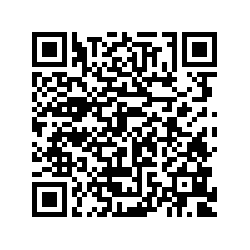
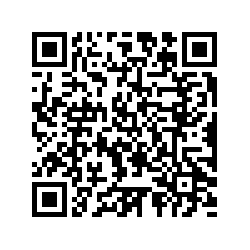
Finally qr for attendance is implemented with the classpath defined in yml file .

Changed region(s): [[0.112, 0.112, 0.868, 0.868]]

diff --git a/src/main/java/com/cosmotechintl/AttendanceSystem/service/AttendanceServiceImpl.java b/src/main/java/com/cosmotechintl/AttendanceSystem/service/AttendanceServiceImpl.java
@@ -26,6 +26,7 @@ import java.nio.file.Files;
 import java.nio.file.Paths;
 import java.time.LocalDate;
 import java.time.LocalDateTime;
+import java.util.Map;
 import java.util.Optional;
 import java.util.UUID;
 
@@ -63,12 +64,12 @@ public class AttendanceServiceImpl implements AttendanceService {
             // Generate and save check-in QR code
             String checkInFilePath = storageDirectory + "checkin.png";
             qrCodeGenerator.saveQRCodeImage(qrCodeDataCheckIn, checkInFilePath);
-            saveQRMetadata(token,date,checkInFilePath);
+            saveQRMetadata(token, date, checkInFilePath);
 
             // Generate and save check-out QR code
             String checkOutFilePath = storageDirectory + "checkout.png";
             qrCodeGenerator.saveQRCodeImage(qrCodeDataCheckOut, checkOutFilePath);
-            saveQRMetadata(token,date,checkOutFilePath);
+            saveQRMetadata(token, date, checkOutFilePath);
         } catch (Exception e) {
             // Log the exception
             System.err.println("Error generating daily QR codes: " + e.getMessage());
@@ -76,8 +77,8 @@ public class AttendanceServiceImpl implements AttendanceService {
         }
     }
 
-    @Scheduled(cron ="59 59 23 * * *")
-    private void deleteDailyQR(){
+    @Scheduled(cron = "59 59 23 * * *")
+    private void deleteDailyQR() {
         try {
             // Define the directory where QR codes are stored
             String storageDirectory = "qr_storage/";
@@ -109,20 +110,42 @@ public class AttendanceServiceImpl implements AttendanceService {
             System.out.println("Error occurred while deleting daily QR codes: " + e.getMessage());
         }
     }
-    @Override
-    public ResponseEntity<?> getCheckInQR() {
-        return getQRResponse("qr_storage/checkin.png");
-    }
 
     @Override
-    public ResponseEntity<?> getCheckOutQR() {
-        return getQRResponse("qr_storage/checkout.png");
+    public ApiResponse<?> getAttendanceQR() {
+        try {
+            // Retrieve and validate the file paths for both QR codes
+            String checkInPath = validateQRFilePath("qr_storage/checkin.png");
+            String checkOutPath = validateQRFilePath("qr_storage/checkout.png");
+
+            // Prepare the response data
+            Map<String, String> paths = Map.of(
+                    "checkInQR", checkInPath,
+                    "checkOutQR", checkOutPath
+            );
+            return ResponseUtil.getSuccessResponse(paths, "QR Code generated successfully.");
+        } catch (Exception e) {
+            return ResponseUtil.getErrorResponse(e, HttpStatus.CONFLICT);
+        }
+    }
+
+    // Helper method to validate and retrieve the file path
+    private String validateQRFilePath(String filePath) throws ResourceNotFoundException {
+        File qrFile = new File(filePath);
+
+        // Check if the file exists
+        if (!qrFile.exists()) {
+            throw new ResourceNotFoundException("QR code file not found: " + filePath);
+        }
+
+        // Return the relative path of the file
+        return filePath;
     }
 
     @Override
     public ApiResponse<?> checkIn(QRAttendance qrattendance) {
-        String accessToken =qrattendance.getAccessToken();
-        String token =qrattendance.getToken();
+        String accessToken = qrattendance.getAccessToken();
+        String token = qrattendance.getToken();
         try {
             // Step 1: Validate token and expiration
             UserInfo userInfo = validateAccessTokenAndUUIDToken(accessToken, token);
@@ -149,8 +172,8 @@ public class AttendanceServiceImpl implements AttendanceService {
 
     @Override
     public ApiResponse<?> checkOut(QRAttendance qrattendance) {
-        String accessToken =qrattendance.getAccessToken();
-        String token =qrattendance.getToken();
+        String accessToken = qrattendance.getAccessToken();
+        String token = qrattendance.getToken();
         try {
             // Step 1: Validate token and expiration
             UserInfo userInfo = validateAccessTokenAndUUIDToken(accessToken, token);
@@ -189,9 +212,10 @@ public class AttendanceServiceImpl implements AttendanceService {
         UserInfo userinfo = userInfoRepository.findByUsername(username).orElseThrow(() -> new ResourceNotFoundException("User not found"));
         LocalDate today = LocalDate.now();
         // Check if the QR code is expired
-        boolean existQr = qrRepository.existsByTokenAndDate(token,today);
-        if(!existQr) {
-        throw new ResourceNotFoundException("QR token is not valid.");}
+        boolean existQr = qrRepository.existsByTokenAndDate(token, today);
+        if (!existQr) {
+            throw new ResourceNotFoundException("QR token is not valid.");
+        }
         return userinfo;
     }
 
@@ -201,38 +225,5 @@ public class AttendanceServiceImpl implements AttendanceService {
         qrData.setDate(date);
         qrData.setQr_url(filePath);
         qrRepository.save(qrData);
-    }
-
-    private ResponseEntity<?> getQRResponse(String filePath) {
-        try {
-            // Construct the file object for the QR code
-            File qrFile = new File(filePath);
-
-            // Validate that the QR code exists
-            if (!qrFile.exists()) {
-                throw new FileNotFoundException("QR code file not found: " + filePath);
-            }
-
-            // Prepare the file as a resource
-            Resource fileResource = new FileSystemResource(qrFile);
-
-            // Set the HTTP headers for image content
-            HttpHeaders headers = new HttpHeaders();
-            headers.setContentType(MediaType.IMAGE_PNG);
-            headers.setContentLength(qrFile.length());
-            headers.setContentDispositionFormData("attachment", qrFile.getName());
-
-            // Return the image file in the response
-            return ResponseEntity.ok()
-                    .headers(headers)
-                    .body(fileResource);
-
-        } catch (FileNotFoundException e) {
-            return ResponseEntity.status(HttpStatus.NOT_FOUND)
-                    .body("QR code file not found: " + filePath);
-        } catch (Exception e) {
-            return ResponseEntity.status(HttpStatus.INTERNAL_SERVER_ERROR)
-                    .body("Error generating QR code: " + e.getMessage());
-        }
     }
 }

diff --git a/src/main/java/com/cosmotechintl/AttendanceSystem/Controller/AttendanceController.java b/src/main/java/com/cosmotechintl/AttendanceSystem/Controller/AttendanceController.java
@@ -5,7 +5,6 @@ import com.cosmotechintl.AttendanceSystem.dto.RequestDTO.QRAttendance;
 import com.cosmotechintl.AttendanceSystem.dto.ResponseDTO.ApiResponse;
 import com.cosmotechintl.AttendanceSystem.service.AttendanceService;
 import org.springframework.beans.factory.annotation.Autowired;
-import org.springframework.http.ResponseEntity;
 import org.springframework.web.bind.annotation.*;
 
 @RestController
@@ -15,17 +14,11 @@ public class AttendanceController {
     @Autowired
     private AttendanceService attendanceService;
 
-    @GetMapping("/getCheckInQR")
-    public ResponseEntity<?> getCheckInAttendanceQR() {
-
-        return attendanceService.getCheckInQR();
+    @GetMapping("/getAttendanceQR")
+    public ApiResponse<?> getAttendanceQR() {
+        return attendanceService.getAttendanceQR();
     }
 
-    @GetMapping("/getCheckOutQR")
-    public ResponseEntity<?> getCheckOutAttendanceQR() {
-
-        return attendanceService.getCheckOutQR();
-    }
 
     @PostMapping("/checkIn")
     public ApiResponse<?> checkInUser(@RequestBody QRAttendance attendance) {

diff --git a/src/main/java/com/cosmotechintl/AttendanceSystem/service/QRCodeGenerator.java b/src/main/java/com/cosmotechintl/AttendanceSystem/service/QRCodeGenerator.java
@@ -20,12 +20,16 @@ public class QRCodeGenerator {
 
     public String generateQRCodeData(String apiUrl, String token) {
         try {
+
+            Map<String, String> qrData = Map.of(
+                    "baseUrl", BASE_URL,
+                    "apiUrl", apiUrl,
+                    "token", token
+            );
             // Encode the token as JSON
             ObjectMapper objectMapper = new ObjectMapper();
-            String tokenJson = objectMapper.writeValueAsString(Map.of("token", token));
+            return objectMapper.writeValueAsString(qrData);
 
-            // Construct the complete URL with the JSON token
-            return String.format("%s/%s?data=%s", BASE_URL, apiUrl, tokenJson);
         } catch (Exception e) {
             throw new RuntimeException("Error generating QR code data", e);
         }

diff --git a/src/main/java/com/cosmotechintl/AttendanceSystem/config/SecurityConfig.java b/src/main/java/com/cosmotechintl/AttendanceSystem/config/SecurityConfig.java
@@ -11,7 +11,6 @@ import org.springframework.security.authentication.AuthenticationManager;
 import org.springframework.security.authentication.AuthenticationProvider;
 import org.springframework.security.authentication.dao.DaoAuthenticationProvider;
 import org.springframework.security.config.annotation.authentication.builders.AuthenticationManagerBuilder;
-import org.springframework.security.config.annotation.authentication.configuration.AuthenticationConfiguration;
 import org.springframework.security.config.annotation.method.configuration.EnableMethodSecurity;
 import org.springframework.security.config.annotation.web.builders.HttpSecurity;
 import org.springframework.security.config.annotation.web.configuration.EnableWebSecurity;

diff --git a/src/main/java/com/cosmotechintl/AttendanceSystem/config/JwtAuthFilter.java b/src/main/java/com/cosmotechintl/AttendanceSystem/config/JwtAuthFilter.java
@@ -3,7 +3,6 @@ package com.cosmotechintl.AttendanceSystem.config;
 
 import com.cosmotechintl.AttendanceSystem.service.JwtService;
 import com.cosmotechintl.AttendanceSystem.utility.ResponseUtil;
-import com.fasterxml.jackson.databind.ObjectMapper;
 import jakarta.servlet.FilterChain;
 import jakarta.servlet.ServletException;
 import jakarta.servlet.http.HttpServletRequest;

diff --git a/src/main/java/com/cosmotechintl/AttendanceSystem/service/AttendanceService.java b/src/main/java/com/cosmotechintl/AttendanceSystem/service/AttendanceService.java
@@ -6,9 +6,7 @@ import org.springframework.http.ResponseEntity;
 
 public interface AttendanceService {
 
-    ResponseEntity<?> getCheckInQR();
-
-    ResponseEntity<?> getCheckOutQR();
+    ApiResponse<?> getAttendanceQR();
 
     ApiResponse<?> checkIn(QRAttendance attendance);
 
